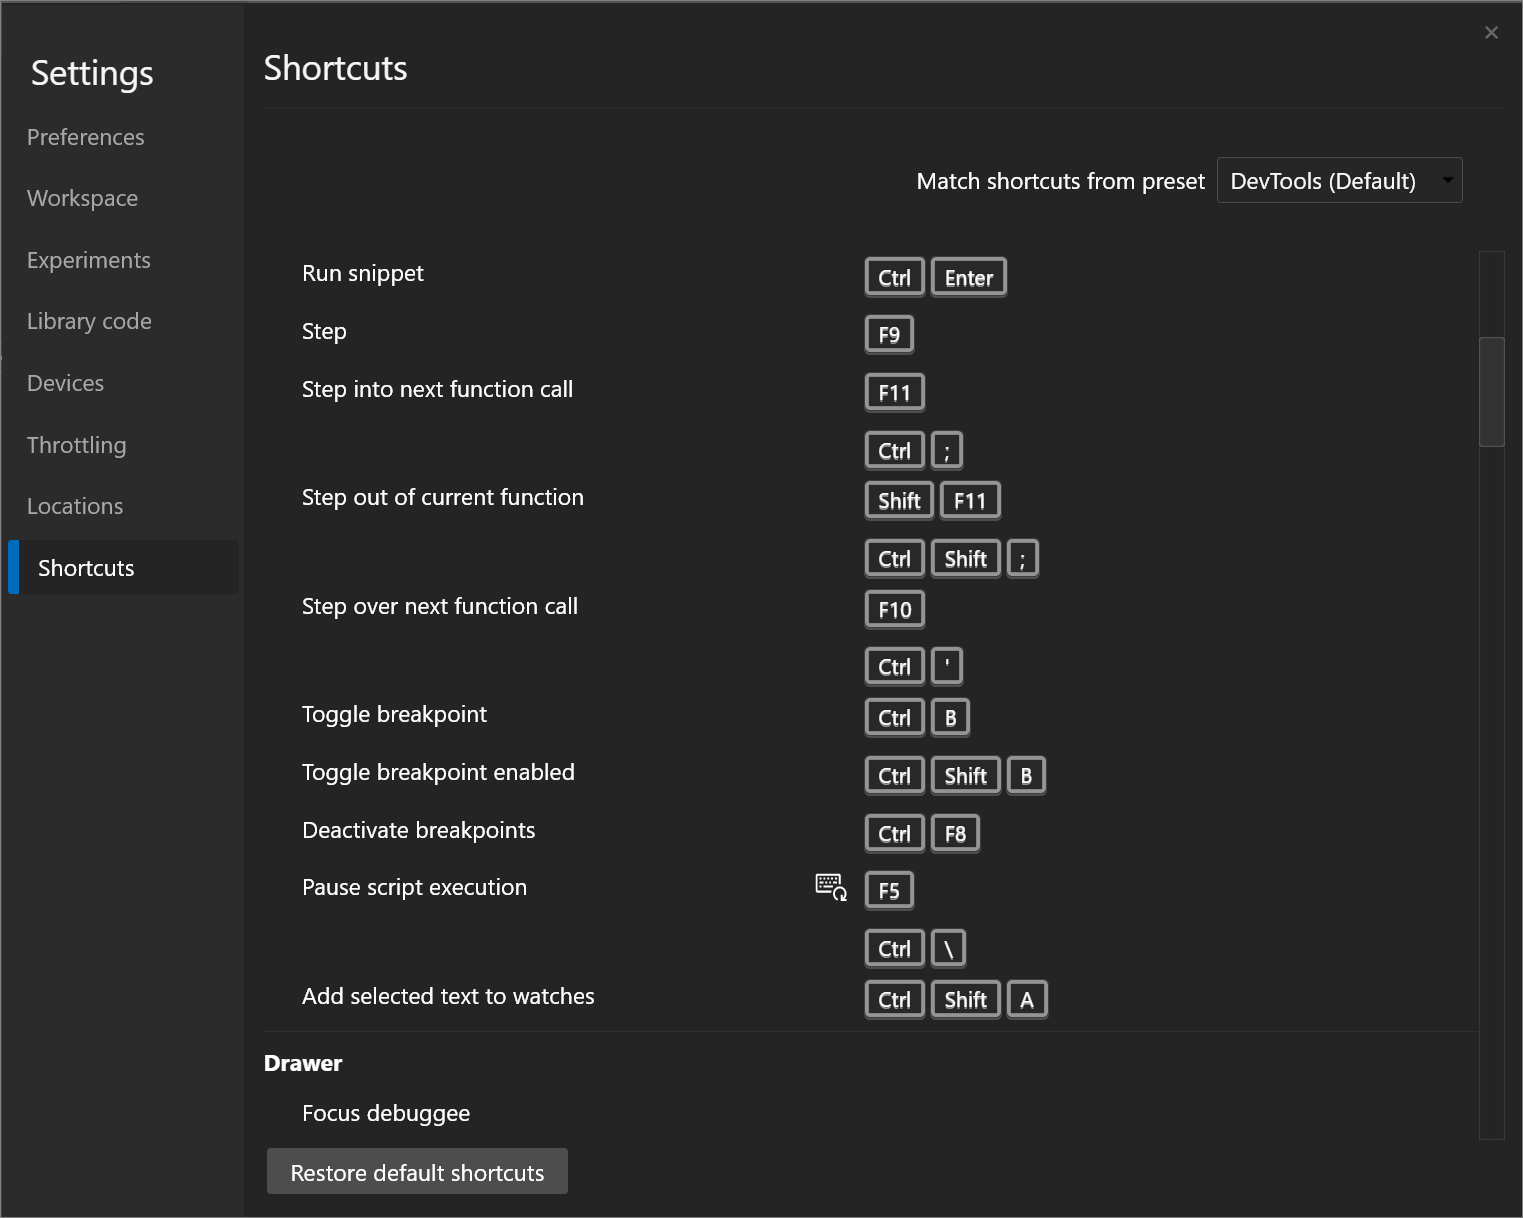
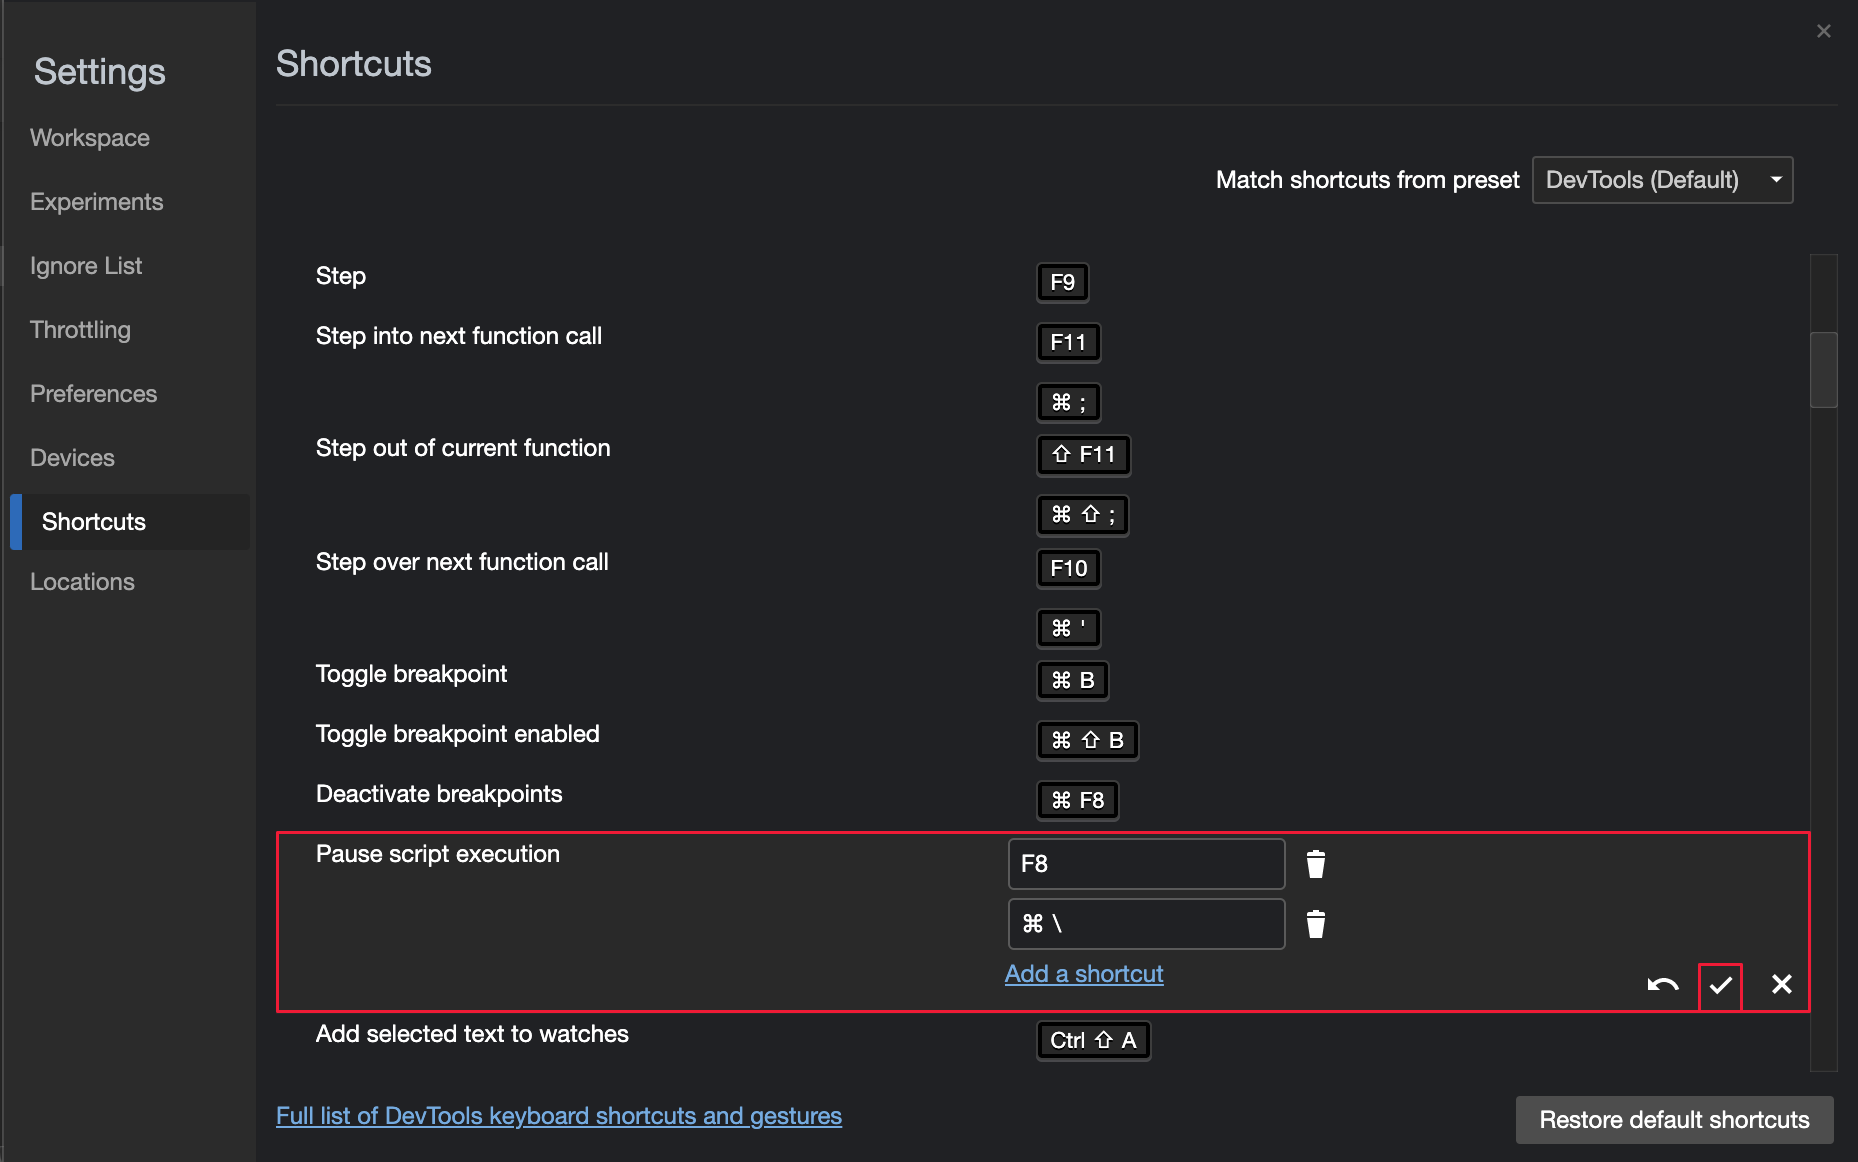
commit from WebFundamentals

diff --git a/microsoft-edge/devtools-guide-chromium/customize/shortcuts.md b/microsoft-edge/devtools-guide-chromium/customize/shortcuts.md
@@ -3,7 +3,7 @@ description: Match keyboard shortcuts in the DevTools to Visual Studio Code
 title: Customize keyboard shortcuts in the Microsoft Edge DevTools
 author: MSEdgeTeam
 ms.author: msedgedevrel
-ms.date: 01/27/2021
+ms.date: 01/28/2021
 ms.topic: article
 ms.prod: microsoft-edge
 keywords: microsoft edge, web development, f12 tools, devtools, custom, shortcuts, keyboard, visual studio code
@@ -23,7 +23,7 @@ The **Shortcuts** page in [Settings][DevToolsCustomizeSettings] provides a list 
     
 ## Match keyboard shortcuts in the DevTools to Microsoft Visual Studio Code  
 
-To match the keyboard shortcuts in the Microsoft Edge DevTools for equivalent actions in [Visual Studio Code][VisualStudioCode], complete the following steps.  
+To match the keyboard shortcut in the Microsoft Edge DevTools for equivalent action in [Visual Studio Code][VisualStudioCode], complete the following steps.  
 
 1.  On the [Shortcuts](#customize-keyboard-shortcuts-in-the-microsoft-edge-devtools) page.  
 1.  Choose the **Match shortcuts from preset** dropdown and change **DevTools (Default)** to **Visual Studio Code**.  
@@ -39,14 +39,15 @@ For example, to pause or continue running a script in [Visual Studio Code][Visua
 To customize the keyboard shortcut for a specific action in DevTools, complete the following steps.  
 
 1.  On the [Shortcuts](#customize-keyboard-shortcuts-in-the-microsoft-edge-devtools) page.  
-1.  Choose the action you want to customize.  
+1.  Choose the action you want to customize.  For example, in the Debugger section, find and select the **Pause script execution** action.
 1.  Choose the **Edit** \(![EditKeyboardShortcut][ImageEditKeyboardShortcutIcon]\) icon.  
     
     :::image type="complex" source="../media/experiments-custom-keyboard-shortcuts-select-action.msft.png" alt-text="Choose the action to customize from the Shortcuts page in Settings" lightbox="../media/experiments-custom-keyboard-shortcuts-select-action.msft.png":::
        Choose the action to customize from the [Shortcuts](#customize-keyboard-shortcuts-in-the-microsoft-edge-devtools) page in [Settings][DevToolsCustomizeSettings]  
     :::image-end:::  
     
-1.  On the keyboard, select the keys you want to bind to the action.
+1.  To bind to the shortcut keys to the action, ensure the textbox next has focus, and then use the keyboard to select the shortcut keys.  
+1.  To bind more than one shortcut combination to an action, choose **Add a shortcut**, ensure the textbox next has focus, and then use the keyboard to select the shortcut keys.  
     
     :::image type="complex" source="../media/experiments-custom-keyboard-shortcuts-enter-key.msft.png" alt-text="Select the keys you want to assign to the action" lightbox="../media/experiments-custom-keyboard-shortcuts-enter-key.msft.png":::
        Select the keys you want to assign to the action  
@@ -62,10 +63,10 @@ To customize the keyboard shortcut for a specific action in DevTools, complete t
     
 On the [Shortcuts](#customize-keyboard-shortcuts-in-the-microsoft-edge-devtools) page, the **Custom Keyboard Shortcut** \(![CustomKeyboardShortcut][ImageCustomKeyboardShortcutIcon]\) icon displays keyboard shortcuts that you have customized.  To reset all shortcuts, choose **Restore default shortcuts**.  
 
-When you are editing the keyboard shortcuts for an action, to discard your changes, choose the X \(![XKeyboardShortcut][ImageXKeyboardShortcutIcon]\) icon.  To remove shortcuts for a specific action, choose the **Delete shortcut** \(![DeleteKeyboardShortcut][ImageDeleteKeyboardShortcutIcon]\) icon.  To add multiple shortcuts for an action, choose **Add a shortcut**.  
+When you are editing the keyboard shortcuts for an action, to discard your changes, choose the X \(![XKeyboardShortcut][ImageXKeyboardShortcutIcon]\) icon.  To remove shortcuts for a specific action, choose the **Delete shortcut** \(![DeleteKeyboardShortcut][ImageDeleteKeyboardShortcutIcon]\) icon.  
 
 > [!NOTE]
-> If a keyboard shortcut is currently assigned to another action, you are not able to save it for a new action.  You must first delete the keyboard shortcut for the previous action and then add it to the new action.  
+> If a keyboard shortcut is currently assigned to one action, you are blocked from saving it to another action.  Instead, delete the keyboard shortcut from the previous action, and then add it to the new action.
 
 <!-- image links -->  
 
